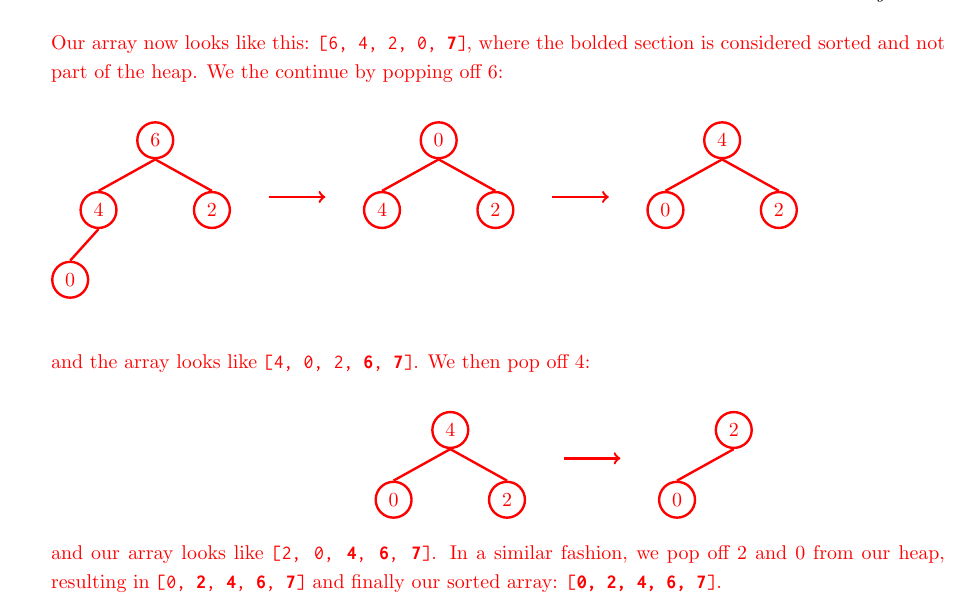
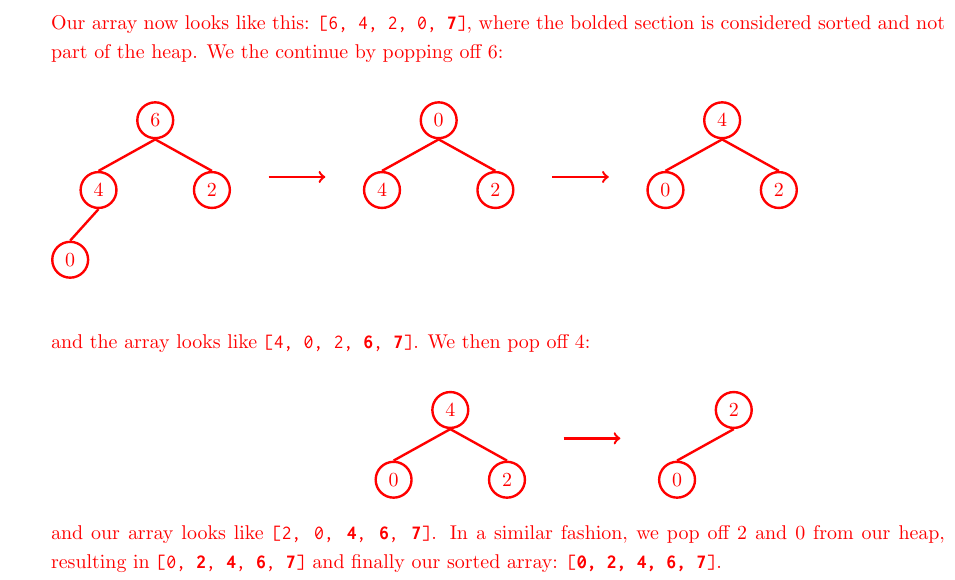
Fix audited Discussion 11 study guide

diff --git a/Discussion/discussion-11/discussion-11.md b/Discussion/discussion-11/discussion-11.md
@@ -144,11 +144,21 @@ Use heapsort to sort the following array (hint: draw out the heap). Draw out the
 
 #### 官方答案
 
-First, we need to heapify our array. We convert the current array to a max heap. Recall that to heapify our array, we bubble down in reverse level order (bottom to top, right to left). Bubbling down `6` (swapping `6` and `7`) and then bubbling down `0` gives the final heap, whose underlying array is `[7, 6, 2, 0, 4]`.
+First, we need to heapify our array. We convert the current array to a max heap:
 
-We then begin popping off the max value from the heap, placing it at the back of the array. The arrays become `[6, 4, 2, 0, 7]`, `[4, 0, 2, 6, 7]`, `[2, 0, 4, 6, 7]`, `[0, 2, 4, 6, 7]`, and finally `[0, 2, 4, 6, 7]`.
+Recall that to heapify our array, we bubble down in reverse level order (bottom to top, right to left). This means we start by bubbling down 4, which in this case gives us the same heap structure. Bubbling down 7, and then 2, leaves the heap unchanged as well. Bubbling down 6 (swapping 6 and 7) then gives us the following:
+
+Bubbling down 0 gives us our final heap:
+
+Note that as we heapify, we also modify the underlying array representation as well. This means that our final array looks like `[7, 6, 2, 0, 4]`. We then begin popping off the max value from the heap, placing it at the back of the array. Note that our underlying array representation doesn’t consider the popped value as part of the heap any more. We start by popping off 7 and bubbling down:
 
 ![Official heapsort diagrams, part 1](assets/question-01d-heapsort-steps-1.png)
+
+Our array now looks like this: $[6, 4, 2, 0, \mathbf{7}]$, where the bolded section is considered sorted and not part of the heap. We the continue by popping off 6:
+
+and the array looks like $[4, 0, 2, \mathbf{6, 7}]$. We then pop off 4:
+
+and our array looks like $[2, 0, \mathbf{4, 6, 7}]$. In a similar fashion, we pop off 2 and 0 from our heap, resulting in $[0, \mathbf{2, 4, 6, 7}]$ and finally our sorted array: $[\mathbf{0, 2, 4, 6, 7}]$.
 
 ![Official heapsort diagrams, part 2](assets/question-01d-heapsort-steps-2.png)
 
